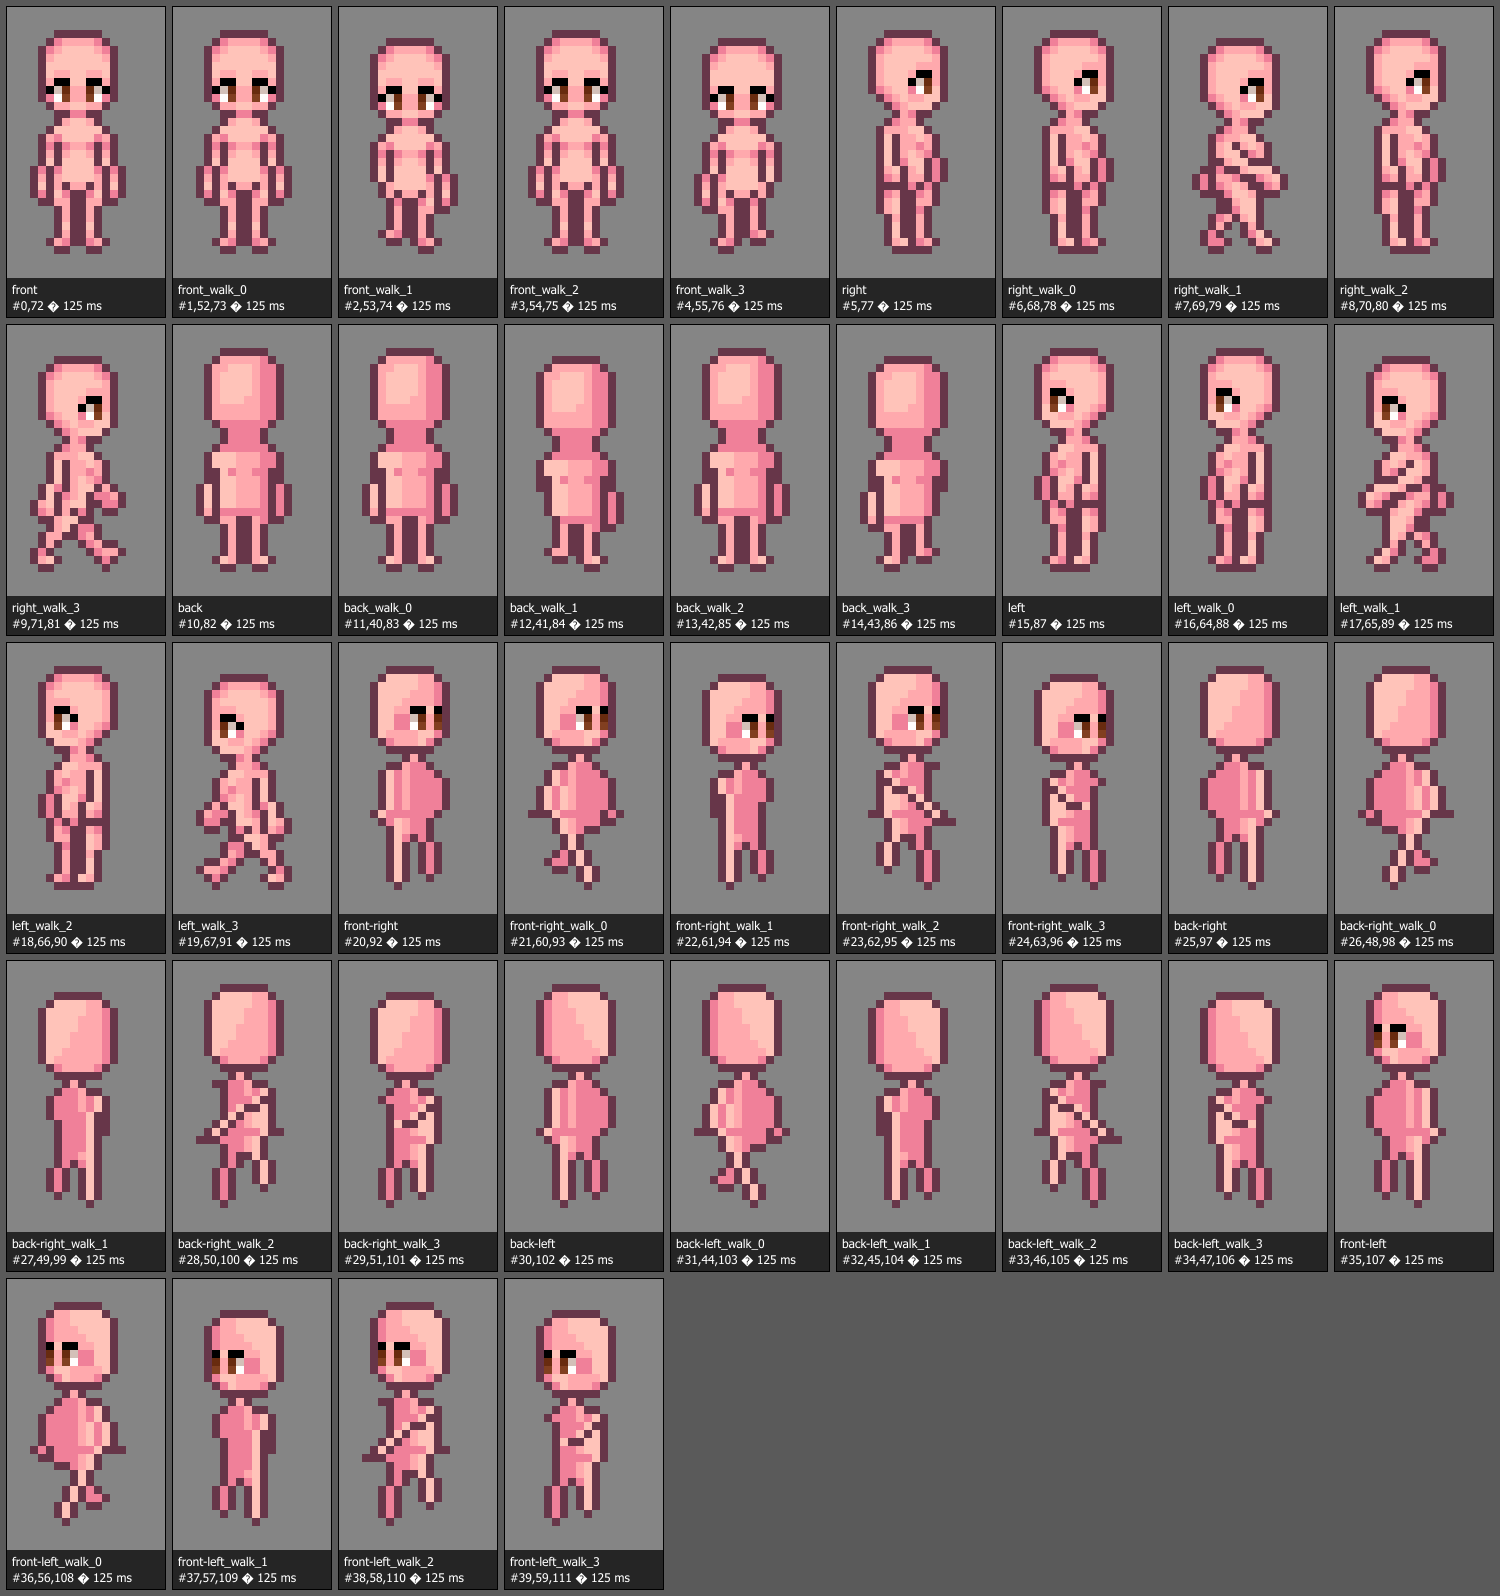
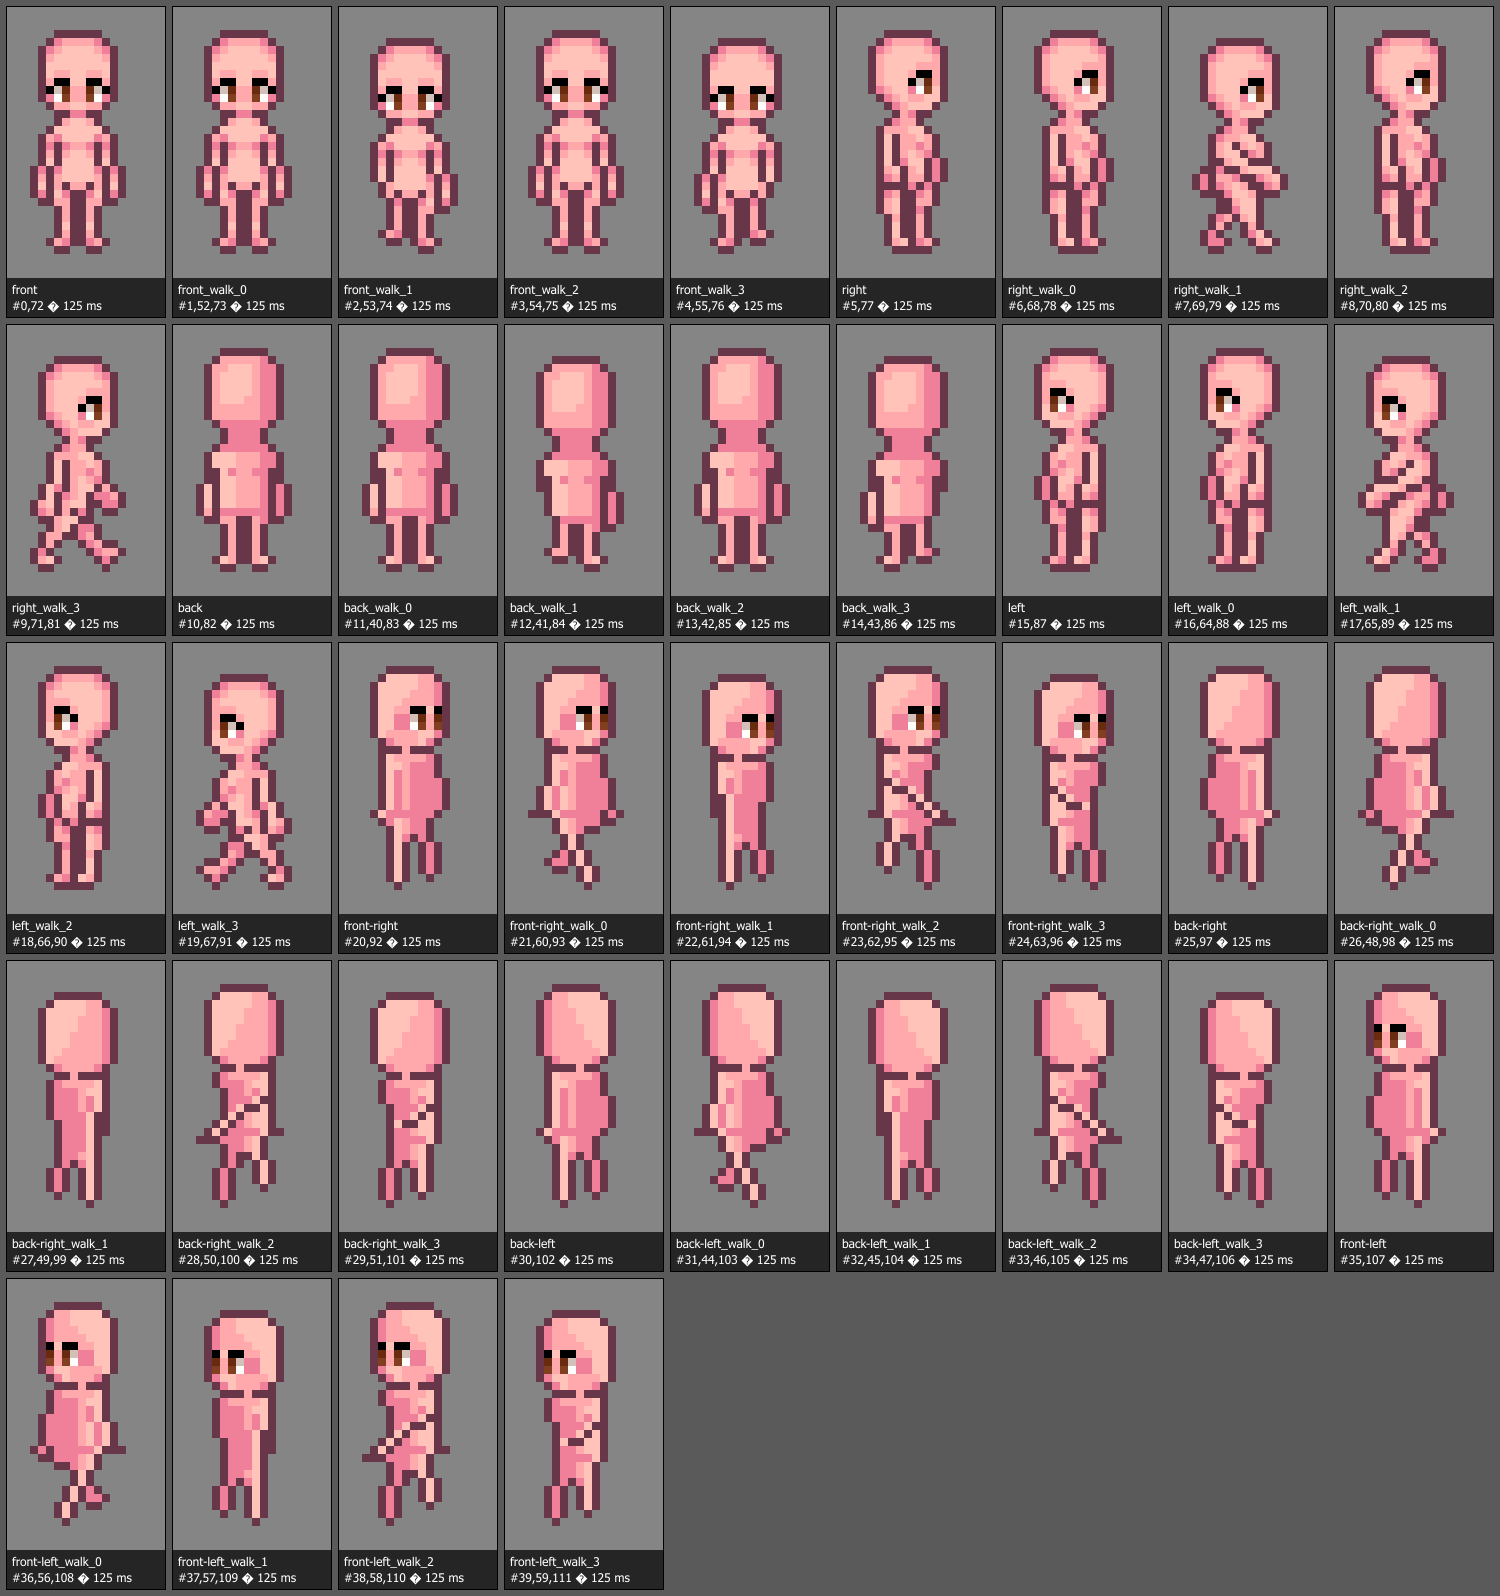
Tuck the diagonal mannequin shoulders into the jaw

diff --git a/tests/native-diagonal.test.js b/tests/native-diagonal.test.js
@@ -37,6 +37,23 @@ test('published diagonals mirror complete pixel construction and retain outlined
   }
  }
 });
+test('shoulders meet the jaw with a single base-skin neck pixel in each diagonal pose',()=>{
+  for(const kind of ['adult','child','large']){
+    const ops=nativeMannequin(kind);
+    const base=SKIN_TONES.find(t=>t.id==='peach').colors.base;
+    for(const direction of dirs)for(const phase of [null,0,1,2,3]){
+      const alias=phase===null?direction:`${direction}_walk_${phase}`;
+      const cell=ops.find(o=>o.command==='name'&&o.as===alias).cell;
+      const jaw=(kind==='child'?18:12)+((phase??0)%2);
+      const pixels=ops.filter(o=>o.command==='draw'&&o.cell===cell);
+      const chin=pixels.filter(p=>p.y===jaw&&p.name.startsWith('head_'));
+      expect(chin.filter(p=>p.color===base).map(p=>p.x)).toEqual([direction.endsWith('left')?8:7]);
+      expect(pixels.some(p=>p.y===jaw&&p.name.startsWith('body_'))).toBe(true);
+      expect(pixels.filter(p=>p.y===jaw+1).length).toBeGreaterThanOrEqual(kind==='large'?10:8);
+    }
+  }
+});
+
 test('diagonal torsos retain an interior shadow plane and passing poses show two separate lower legs',()=>{
  for(const kind of ['adult','child','large']){const ops=appendNativeDiagonals(cardinal(kind),kind,'peach'),shadow=SKIN_TONES.find(t=>t.id==='peach').colors.shadow;
   for(const dir of dirs)for(const phase of [null,0,1,2,3]){const alias=phase===null?dir:`${dir}_walk_${phase}`,cell=ops.find(o=>o.command==='name'&&o.as===alias).cell,ps=ops.filter(o=>o.command==='draw'&&o.cell===cell),shoulder=diagonalJoints(kind,dir,phase).right.shoulder[1];

diff --git a/examples/native-character/FACE-CONSTRUCTION.md b/examples/native-character/FACE-CONSTRUCTION.md
@@ -6,6 +6,8 @@ Use the cardinal faces as the style reference before drawing a diagonal. These g
 
 The bare skull stays ten pixels wide, x=3..12, inside a 16×32 body cell. The adult and large crown is y=2; the child crown is y=8. Diagonal skulls occupy eleven rows. Walking lowers the complete head by one pixel on stride frames and returns it on passing frames. Move the skull, eyes and shading together; do not enlarge the cheek, flatten the crown, or change head depth to make room for facial details. Large bodies retain the adult eye scale.
 
+On the walking mannequin, bring the near shoulder up to the jaw and use one plain base-skin pixel in the chin outline for the neck. Mirror that pixel with the head and carry both shoulders with the head bob. A standalone head keeps its closed outline.
+
 The diagonal silhouette has a closed, fully opaque interior. Model the turn with the far eye's narrower width and shifted light/shadow clusters. Mirror the entire right-facing construction for the corresponding left facing. Rear diagonals show the back of the skull without brows, eyes or a frontal mouth.
 
 ## Brows and eyes

diff --git a/skills/sprite-character/references/directional-consistency.md b/skills/sprite-character/references/directional-consistency.md
@@ -28,6 +28,10 @@ block or lose the back of the skull. Widths and opaque pixel counts may change w
 projection and occlusion; exact equality is not a volume test. Record measurements
 as evidence, then inspect whether the turn preserves the reference's form.
 
+For the bare native mannequin, bring the shoulders into the jaw and leave a single
+base-skin pixel in the chin outline for the neck. Compare the joined silhouette
+with the front, back and profile at the same phase.
+
 Check idle and every walk phase after accounting for authored bob. Facial clusters
 and head volume should stay stable; torso motion must not enlarge or squash the head.
 
